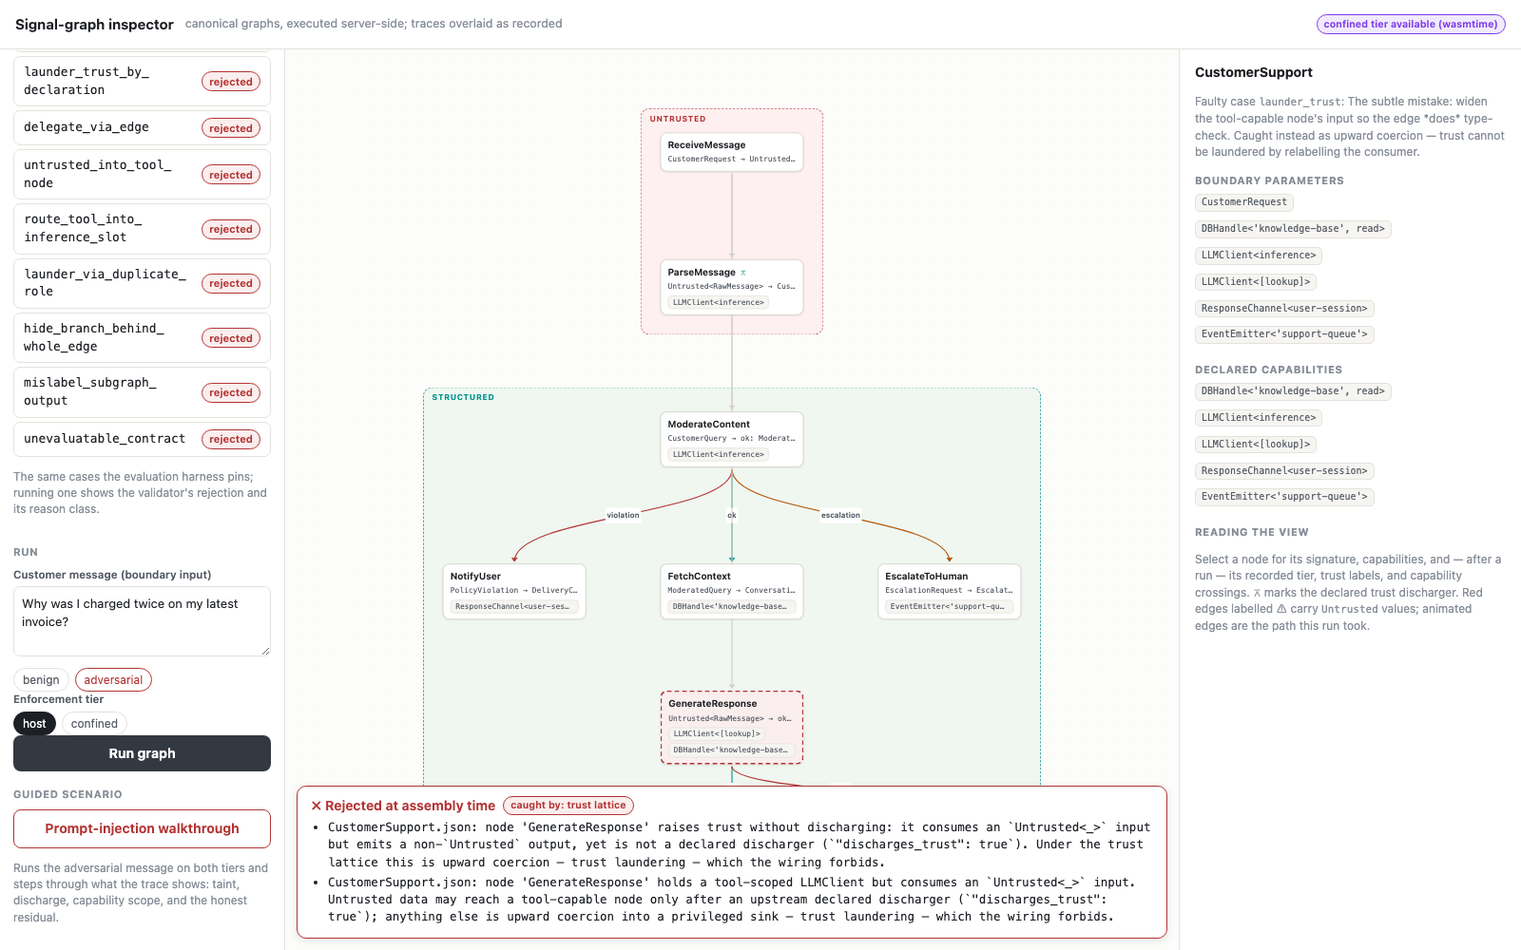
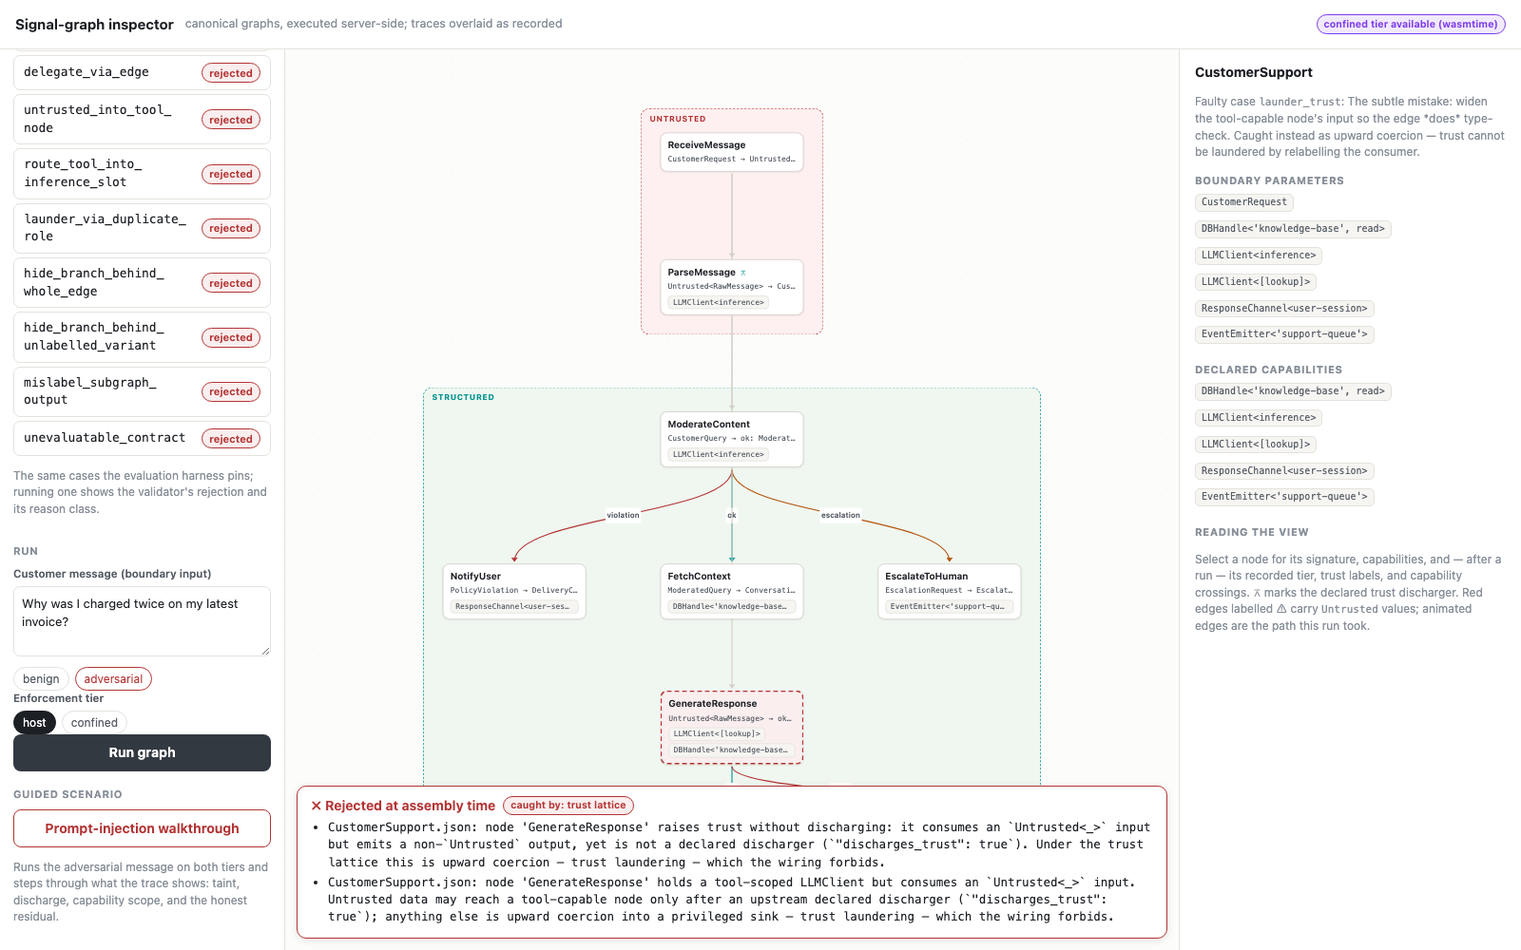
Fix review round J's findings: a partly labelled sum, and the authorisation verdict
A sum mixing labelled and unlabelled variants hid the unlabelled one from
variant completeness (which sweeps roles), and the runtime dropped it with no
terminal and no error: a policy violation swallowed, as in
hide_branch_behind_whole_edge. The parser now rejects a partly labelled sum
(hide_branch_behind_unlabelled_variant pinned, found by review), and the
runtime refuses a value no edge carries at a non-terminal node.

The labelled-boundary-output check was untested (removing it left the suite
green); it now has a test.

Paper: "User-level authorisation threaded through capability injection" moves
from Partial to Not attempted. Partial means "holds under a restriction", and
no authority decision consults the principal, so it is the editor row's
pattern. Rotation's widening scope is stated beside its Substantiated row.
Smaller corrections: "check" not "analysis" in the abstract, an acyclic graph
not path, the derivation also covers the non-shipping graph, the missing-field
contract ambiguity acknowledged, and a §7.5 sentence disambiguated.

Hedge pin re-seeded deliberately: concrete-graph/schema-proviso drops
"unbounded" from "excludes unbounded free text". The artifact's question field
is length-bounded and still carries the residual, so the narrower condition
overstated what bounding buys; the hedge is now stricter.

diff --git a/poc/variants.py b/poc/variants.py
@@ -185,6 +185,24 @@ def hide_branch_behind_whole_edge(graph: dict) -> dict:
     return g
 
 
+def hide_branch_behind_unlabelled_variant(graph: dict) -> dict:
+    """Drop one variant's role in a labelled sum.
+
+    `ModerateContent` declares `ok: ModeratedQuery | PolicyViolation | escalation:
+    EscalationRequest` and its `violation` edge is removed. Variant completeness
+    swept the roles, so the unlabelled variant was never checked; the unported edge
+    that could carry it is refused for a labelled sum; and the runtime, finding no
+    edge for it at a node that is not a terminal, dropped it — the policy violation
+    `hide_branch_behind_whole_edge` swallowed, spelled differently. A sum is labelled
+    throughout or not at all."""
+    g = copy.deepcopy(graph)
+    for node in g["nodes"]:
+        if node["name"] == "ModerateContent":
+            node["output"] = "ok: ModeratedQuery | PolicyViolation | escalation: EscalationRequest"
+    g["data_edges"] = [e for e in g["data_edges"] if e["from"] != "ModerateContent.violation"]
+    return g
+
+
 def mislabel_subgraph_output(platform: dict) -> dict:
     """Make a sub-graph node lie about what it emits at its boundary.
 
@@ -237,6 +255,7 @@ UNSAFE_VARIANTS = {
     "route_tool_into_inference_slot": route_tool_into_inference_slot,
     "launder_via_duplicate_role": launder_via_duplicate_role,
     "hide_branch_behind_whole_edge": hide_branch_behind_whole_edge,
+    "hide_branch_behind_unlabelled_variant": hide_branch_behind_unlabelled_variant,
     "mislabel_subgraph_output": mislabel_subgraph_output,
     "unevaluatable_contract": unevaluatable_contract,
 }

diff --git a/poc/evaluate.py b/poc/evaluate.py
@@ -151,7 +151,8 @@ REASON_SIGNATURES: dict[str, tuple[str, ...]] = {
     # The lattice's own messages only: the node-body check and the edge check.
     REASON_TRUST_LATTICE: ("raises trust without", "trust-lattice violation"),
     REASON_SINK: ("holds a tool-scoped LLMClient",),
-    REASON_SUM_ROLE: ("duplicate variant role",),
+    # A port names exactly one variant, and every variant of a labelled sum has one.
+    REASON_SUM_ROLE: ("duplicate variant role", "has no port to leave on"),
     REASON_VARIANT: ("whole-output edge never fires", "but no edge consumes it"),
     REASON_CROSS_GRAPH: (
         "declared output",
@@ -300,6 +301,16 @@ CORPUS: tuple[Case, ...] = (
         "and the violation and escalation edges are removed. The runtime routes by role, "
         "so the edge never fires and a policy violation is swallowed silently; the "
         "validator once read it as covering every variant.",
+        found_by_review=True,
+    ),
+    Case(
+        "hide_branch_behind_unlabelled_variant",
+        "mutation",
+        REJECTED,
+        REASON_SUM_ROLE,
+        "The same swallowed violation by another spelling: `ModerateContent`'s violation "
+        "variant loses its role, so no port carries it and variant completeness, which "
+        "sweeps roles, never saw it. The type parser rejects a partly labelled sum.",
         found_by_review=True,
     ),
     Case(

diff --git a/tests/test_poc_runtime.py b/tests/test_poc_runtime.py
@@ -7,10 +7,12 @@ Covers the `signal-graph-runtime` spec requirements:
 
 from __future__ import annotations
 
+import pytest
+
 from poc.demo import ADVERSARIAL, BENIGN, STORES
 from poc.graph import assemble, load_graph_dict
 from poc.llm import StubLLM
-from poc.runtime import execute
+from poc.runtime import ExecutionError, execute
 from poc.values import (
     ConversationContext,
     CustomerQuery,
@@ -139,3 +141,14 @@ def test_free_text_residual_is_real_and_acknowledged():
     ctx = result.received["GenerateResponse"]
     assert isinstance(ctx, ConversationContext)
     assert "ignore all previous instructions" in ctx.question.lower()
+
+
+def test_a_value_no_edge_carries_is_refused_not_dropped():
+    """Defence in depth behind variant completeness. With the `violation` edge cut
+    from an assembled graph (bypassing validation), a flagged message used to end
+    the run at `ModerateContent` with no terminal and no error — a policy violation
+    swallowed silently (round J, 30 September 2026). It is now refused."""
+    graph = assemble(load_graph_dict("customer-support"), backend=StubLLM(), stores=STORES)
+    graph.edges = [e for e in graph.edges if e.src_port != "violation"]
+    with pytest.raises(ExecutionError, match="no edge carries"):
+        execute(graph, CustomerRequest(session_id="user-session", body="about self-harm"))

diff --git a/poc/runtime.py b/poc/runtime.py
@@ -463,12 +463,24 @@ def execute(
         # A binder is a delegate for everything downstream of it: it acts on the
         # principal's behalf, and says so in the graph rather than in its body.
         downstream = (*acting_as, node_name) if node.binds_principal else acting_as
+        routed = False
         for e in edges:
             if isinstance(output, Variant):
                 if e.src_port == output.role:
                     pending.append((e.dst_node, output.value, downstream))
+                    routed = True
             else:
                 if e.src_port is None:
                     pending.append((e.dst_node, output, downstream))
+                    routed = True
+        # A node with out-edges is not a terminal, so a value no edge carries would
+        # vanish with no error. Validation should make this unreachable; refusing it
+        # here means a gap in validation fails loudly instead of silently.
+        if not routed:
+            role = output.role if isinstance(output, Variant) else None
+            raise ExecutionError(
+                f"node {node_name!r} emitted {'variant ' + repr(role) if role else 'a value'} "
+                f"that no edge carries"
+            )
 
     return result

diff --git a/tests/test_poc_subgraph.py b/tests/test_poc_subgraph.py
@@ -529,3 +529,20 @@ def test_the_output_side_of_composition_is_checked():
     errors = validate_graph_dicts([narrowed, child])
     assert any("declared output" in e and "terminal output types" in e for e in errors)
     assert not any("type mismatch" in e for e in errors)
+
+
+def test_a_labelled_boundary_output_is_rejected():
+    """A boundary value is a terminal's output, never a routed variant, so role
+    labels on a sub-graph node's output would give the parent ports that never
+    fire. Nothing tested this until round J (30 September 2026) removed the check
+    and the whole suite stayed green."""
+    child = load_graph_dict("customer-support")
+    parent = copy.deepcopy(load_graph_dict("support-platform"))
+    labelled = "reply: DeliveryConfirmation | escalated: EscalationTicket"
+    for n in parent["nodes"]:
+        if n["name"] in ("CustomerSupport", "AgentDashboard", "BillingService"):
+            n["output"] = labelled
+        if n["name"] == "RecordAudit":
+            n["inputs"][0] = labelled
+    errors = validate_graph_dicts([parent, child])
+    assert any("labelled boundary output" in e for e in errors)

diff --git a/scripts/type_parser.py b/scripts/type_parser.py
@@ -156,6 +156,16 @@ class _Parser:
                 f"duplicate variant role(s) {duplicated} in {self.src!r}; "
                 f"a port must name one variant"
             )
+        # A sum is labelled throughout or not at all. An unlabelled variant in a
+        # labelled sum has no port to leave on, and the unported edge that could
+        # carry it is refused, so variant completeness never saw it and the runtime
+        # dropped it — adversarial review swallowed a policy violation this way.
+        unlabelled = [v for v in variants if not v.role]
+        if roles and unlabelled:
+            raise ParseError(
+                f"sum mixes labelled and unlabelled variants in {self.src!r}; "
+                f"a variant without a role has no port to leave on"
+            )
         return TSum(tuple(variants))
 
     def _parse_variant(self) -> TVariant:

diff --git a/tests/test_type_parser.py b/tests/test_type_parser.py
@@ -114,6 +114,15 @@ class TestSumTypes(unittest.TestCase):
         with self.assertRaises(ParseError):
             parse_type("ok: ConversationContext | ok: Untrusted<RawMessage>")
 
+    def test_a_partly_labelled_sum_is_rejected(self):
+        """An unlabelled variant in a labelled sum has no port to leave on
+        (round J, 30 September 2026: variant completeness swept roles and never
+        saw it, and the runtime dropped it)."""
+        with self.assertRaises(ParseError):
+            parse_type("ok: ModeratedQuery | PolicyViolation | escalation: EscalationRequest")
+        # Wholly unlabelled sums are still a sum.
+        self.assertIsInstance(parse_type("AlphaPayload | BetaPayload"), TSum)
+
     def test_two_variants(self):
         t = parse_type("ok: AgentResponse | error: LLMError")
         self.assertEqual(

diff --git a/scripts/check-hedges.py b/scripts/check-hedges.py
@@ -97,7 +97,7 @@ PINS = (
         "sec:concrete-graph",
         "concrete-graph/schema-proviso",
         "holds only _provided",
-        "the schema guarantee holds only _provided the schema excludes unbounded "
+        "the schema guarantee holds only _provided the schema excludes "
         "free text in positions flowing to privileged nodes_",
     ),
     (

diff --git a/AGENTS.md b/AGENTS.md
@@ -99,7 +99,7 @@ Although this is a writing project, the paper ships with a working, tested PoC t
 - **Evaluation harness** (`poc/evaluate.py`) — runs the demonstrator's own evidence and emits **`dist/evaluation.md`** on every build, the way `dist/grammar.md` is emitted from the parser: the **graph-to-binary derivation** (per ported node: the interface set derived from its `with` clause vs what the built component imports — the lead claim, reported as a figure and not only asserted in `test_poc_sandbox.py`; it also carries one row from `FEED_PULSE_GRAPH`, which does not ship, because that is what puts the three I/O kinds through the gate, and rows are marked shipped vs not. **Coverage is reported as `kinds_covered`, computed from the rows — never as `len(CAPABILITY_KINDS)`, which is the size of the mapping table and states what the derivation *could* map rather than what it has been held against a binary for; `EventEmitter` is currently mapped but unexercised, and the paper says so**), the graph-mutation corpus, the overhead measurement, and the prompt-injection outcome on both tiers, consolidated into one artifact a paper can cite. An over-granting *or* under-importing component fails the build here, not just in the suite. Because every reported row necessarily agrees, the gate is also shown **rejecting a real binary**: `NEGATIVE_CONTROLS` holds `hostile_ungranted` (built with `ParseMessage`'s signature plus a `kb-read` import) to `ParseMessage`'s clause and pins it to be caught for exactly that interface — a gate that stopped firing fails the build. It *imports* the corpus/bench/demo rather than re-deriving them. Crucially it is a **regression guard, not a report**: each corpus case pins the verdict it must produce *and the reason class it must be caught by* (`launder_trust` must be caught by the trust lattice, not as an edge type mismatch — a pass/fail pin would stay green if that regressed), and any divergence fails the build without rewriting the artifact. The corpus pins itself against silent growth too: adding an `UNSAFE_VARIANTS` entry without pinning it is an error, not an uncounted pass. The canonical graphs are corpus cases in their own right — a validator that rejected everything would catch every unsafe wiring and be worthless. The artifact states that the corpus is **curated and illustrative** (counts, not a soundness claim) and reports the host tier's escapes as the recorded gap beside the sandbox tier's confinement. This is the one build step that is **not** stdlib-only: it needs `wasmtime`, so `make build` runs it via `uv run --group poc` (installed on demand; no CI change needed).
 - **Overhead measurement** — `poc/sandbox/bench.py` (`uv run --group poc python -m poc.sandbox.bench`) reports component compilation, per-node instantiation, and per-capability-crossing cost against the envelope stated in the paper. Current numbers: a crossing costs **tens of µs** (~25µs; well inside the <1ms envelope) *even though every crossing now lifts/lowers typed WIT values*; instantiation tens of µs; compilation a one-time few ms. **Do not compare these to the pre-component figures**: the benchmark's timing loop was fixed at the same time (it now warms and takes the best of several rounds; it previously timed a single cold pass, which charged JIT warm-up to whatever it measured first — and since the crossing cost is a *difference* of two timings, that could distort it by an order of magnitude). No like-for-like flat-ABI measurement exists (the old figure came from the cold-pass loop, which could be off by a decade either way), so the only supported claim is that the typed crossing sits inside the envelope — not what typing it cost. **The figure is pinned to a band** (`CROSSING_BAND_MIN_MS`/`MAX_MS` in `poc/evaluate.py`, 5–100µs): correcting the timing loop bounded the cold-pass fault but did not remove the fragility, and a contended machine still differences its way to a figure a decade too large — one build wrote **343µs** where the same code writes ~25µs, and nothing caught it because `within_envelope` (<1ms) passed. `measure_within_band()` re-measures a transient excursion and a sustained one fails the build. The ceiling is a decade boundary and the band half-open there, so a measurement that passes names single-digit or tens of microseconds, never hundreds; the paper interpolates whichever it is. **Never hand-type that magnitude in a paper either** — "tens of microseconds" is a claim about the measurement exactly as "25µs" is; use `#d.crossing_magnitude`, which `serialise()` derives from the same run.
 - **Graph inspector** (`ui/` + `poc/inspector_api.py`) — a web inspector reported in Paper 2 §3: renders the canonical graph JSON served **byte-for-byte** (a contract test pins parity), executes runs server-side through the same `assemble`/`execute` path as the tests, and overlays the returned trace (per-node tier, edge trust labels, crossings with instance names, nested sub-graph drill-down). The evaluation corpus's mutation cases are runnable and display the validator's rejection with its **pinned reason class**; a guided prompt-injection walkthrough mirrors §4.4's language (attenuation, not elimination; host tier = shape, not enforcement). It is an **inspector, not the predicted visual editor** — §5's verdict is *not attempted* (an earlier draft's *partial* was the demo flattering the prediction), and authoring (validator-in-the-loop editing) is future work (§8); never let paper prose upgrade this. Claims discipline: every paper-asserted behavior maps to a Python contract test (`tests/test_poc_inspector_api.py`) or a Playwright e2e check (`ui/e2e/`); the e2e run regenerates the committed `ui/screenshots/*.png`, which `make build` copies into `dist/ui/` for the paper figure with plain `cp` — **Node is never needed by the corpus build** (verified by building with `node`/`npm`/`npx` shimmed to fail). Run with `make ui` (API + dev server), check with `make ui-check` / `make ui-e2e`.
-- **Tests** — `tests/` is a pytest suite covering the parser, the validator, the runtime, both enforcement tiers, the execution trace (`test_poc_trace.py`), the evaluation harness, the inspector API's contract (`test_poc_inspector_api.py`), the hedge guard's failure path (`test_check_hedges.py`), the freeze guard's, including that its reference is reachable from HEAD (`test_check_freeze.py`), and the pandoc cross-reference filter (`test_resolve_crossrefs.py`, skipped without pandoc): **395 tests + 21 subtests, all passing** (`make test` or `uv run pytest`; run with `--group poc` to include the sandbox-gated tests — 58 in `test_poc_sandbox.py`, 19 in `test_poc_evaluate.py`, and 2 in `test_poc_inspector_api.py` — which otherwise skip). The validator and parser stay dependency-free so the pre-commit hook remains portable; the runtime's optional dependencies (Anthropic SDK for `--live`, `wasmtime` for the sandbox tier) live in the `poc` dependency group (`uv sync --group poc`) and must never leak into `scripts/` — which is why the evaluation harness lives in `poc/`, not `scripts/`.
+- **Tests** — `tests/` is a pytest suite covering the parser, the validator, the runtime, both enforcement tiers, the execution trace (`test_poc_trace.py`), the evaluation harness, the inspector API's contract (`test_poc_inspector_api.py`), the hedge guard's failure path (`test_check_hedges.py`), the freeze guard's, including that its reference is reachable from HEAD (`test_check_freeze.py`), and the pandoc cross-reference filter (`test_resolve_crossrefs.py`, skipped without pandoc): **400 tests + 21 subtests, all passing** (`make test` or `uv run pytest`; run with `--group poc` to include the sandbox-gated tests — 58 in `test_poc_sandbox.py`, 19 in `test_poc_evaluate.py`, and 2 in `test_poc_inspector_api.py` — which otherwise skip). The validator and parser stay dependency-free so the pre-commit hook remains portable; the runtime's optional dependencies (Anthropic SDK for `--live`, `wasmtime` for the sandbox tier) live in the `poc` dependency group (`uv sync --group poc`) and must never leak into `scripts/` — which is why the evaluation harness lives in `poc/`, not `scripts/`.
 - **Build outputs** — `make build` produces the whole corpus under `dist/papers/<id>/proposal.{pdf,md,html}` (each with the figures it references), the shared rendered graph/diagram SVGs, `dist/grammar.md`, `dist/evaluation.md`, and deprecated `dist/proposal.{pdf,md,html}` aliases to Paper 2 for one link-migration transition. Each paper's PDF is also emitted under its citable publication name (`lavi-<year>-<slug>.pdf` — Paper 1: `lavi-2026-architecture-as-program.pdf`, published; Paper 2: `lavi-2026-confinement-by-construction.pdf`, year provisional until it publishes); that copy is what gets uploaded to venues, while internal names stay `proposal.*`. `dist/` is gitignored. Living papers reference the shared figures root-absolutely (`/dist/...`, compiled with `typst --root`); the frozen paper reads its own figure tree through the committed `papers/01-vision/dist` symlink.
 - **Citation hygiene** — paper-aware. `scripts/check-citations.py` treats a bib entry as used if *any* paper cites it (over the shared `citations.bib`); `scripts/validate-bib.py` is available for manual checks (it runs in neither the build nor CI, and its fuzzy matching can fail on noise). Every citation must resolve (Typst errors on broken refs per paper). `scripts/check-freeze.py` guards the frozen paper against silent edits (its sources against the freeze commit, and its served artifacts against `PUBLISHED.json`), and `scripts/check-hedges.py` guards the living papers' pinned unproven claims against losing the qualification that bounds them — a regression guard over the passages it pins, not over the discipline (see "When editing the proposal"). Both run in `make build` and pre-commit; the hedge guard is stdlib-only, like the validator, so the hook stays portable.
 

diff --git a/docs/ROADMAP.md b/docs/ROADMAP.md
@@ -131,7 +131,7 @@ graph is self-hosting and cute, but has no untrusted input, so it would leave th
 | **Fan-in / aggregation** | A restricted fold over a homogeneous list; the runtime today *refuses* multi-terminal runs | The highest-value item. It is the first real test of the trust lattice's stated monotonicity condition: a node's output label must be a monotone function of the **meet** of its input labels. The paper asserts that condition and never exercises it. One tainted item in twenty must taint the digest |
 | **I/O capability kinds** | ~~`HTTPClient<allowlist>`, `Clock`, `Notifier<channel>` as typed WIT interfaces~~ — **done** (`add-io-capability-kinds`): seven kinds map with no special case (six held against a binary), `wasi:clocks/wall-clock` granted directly, allowlist narrowing by set inclusion (checked at assembly, not enforced — see the next row), hostile cases pinned | Directly widened the paper's strongest result — the import set derived from the `with` clause and checked against the binary. The clock demonstration replaced the "imports *no* clock" boast with a worked grant |
 | **Attenuation at the routing point** | When a parent routes a wider handle to a sub-graph, wrap it in a facade limited to the child's declared scope (mode, tool set, allowlist, store), keeping the caretaker so revocation still reaches it | Strengthens the *current* paper: capability narrowing is checked at assembly but not enforced, so a routed handle's scope is the parent's (Paper 2 §5.1, §7.6). Enforcing it would let the *Partial* "a node cannot exceed its declared capabilities" drop its routed-scope qualifier. A new runtime capability, so it needs its own change |
-| **Binding a handle to the principal** | Scope a user-scoped instance to the run's principal at provisioning, and refuse a crossing whose principal is outside it | Strengthens the *current* paper: the principal is recorded and propagated but bound to no handle, so the *Partial* "User-level authorisation threaded through capability injection" rests on the trace alone. Binding it would give that row a mechanism, not just a record. A new runtime capability, so its own change |
+| **Binding a handle to the principal** | Scope a user-scoped instance to the run's principal at provisioning, and refuse a crossing whose principal is outside it | Strengthens the *current* paper: the principal is recorded and propagated but bound to no handle, so "User-level authorisation threaded through capability injection" is *Not attempted* (it was *Partial* until review on 30 Sep 2026 found no authority decision consults the principal). Binding it would give that row a mechanism, not just a record. A new runtime capability, so its own change |
 | **A driver boundary** | A scheduler that ticks the graph | Small. Today the graph is driven by a test harness; a real service is driven by the world |
 | **A contract language** | ~~Deliberately minimal~~ — **done** (`poc/contracts.py`): closed vocabulary, blame, corpus-pinned. What remains is the *generative* mode: derive a Hypothesis strategy from a precondition and fuzz each node body off the execution path | Prerequisite for the generation experiment below — a generated body needs something to be checked *against* beyond "it compiled". The runtime half exists; the generative half is M3 |
 | **Agent-generated node bodies** | The experiment (below) | The thesis's central untested claim |

diff --git a/openspec/changes/prepare-paper-2-publication/tasks.md b/openspec/changes/prepare-paper-2-publication/tasks.md
@@ -108,6 +108,13 @@
       `hide_branch_behind_whole_edge` pinned. The inspector screenshots regenerated (the paper
       figure showed three cases), with long case names wrapping at underscores. The corpus
       records which cases review found (`found_by_review`, interpolated in §4.2 and §7.1)
+- [x] 6.24 A partly labelled sum hid its unlabelled variant from variant completeness, and the
+      runtime dropped it silently; the parser rejects such a sum
+      (`hide_branch_behind_unlabelled_variant` pinned) and the runtime refuses a value no edge
+      carries. The user-level authorisation row moved from *Partial* to *Not attempted* (no
+      authority decision consults the principal); rotation's scope stated beside its row; the
+      schema proviso's hedge drops "unbounded" (the bounded question field carries the residual),
+      re-seeding its pin
 
 ## 7. Publication (handed over from `merge-and-condense-papers`, 30 September 2026)
 
